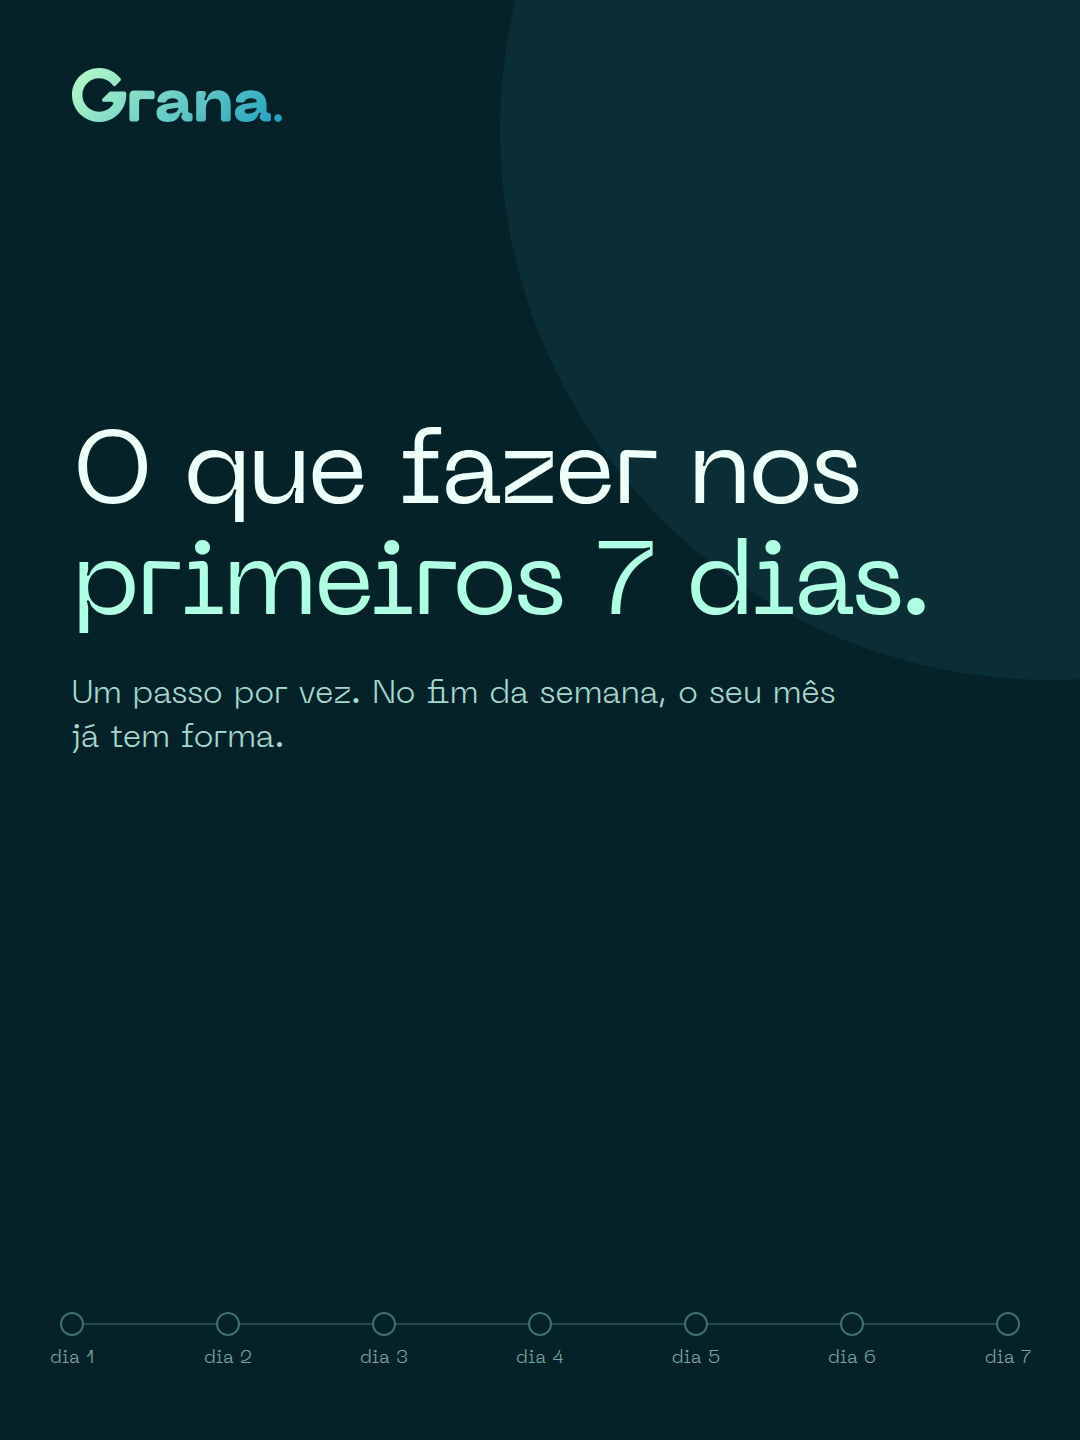
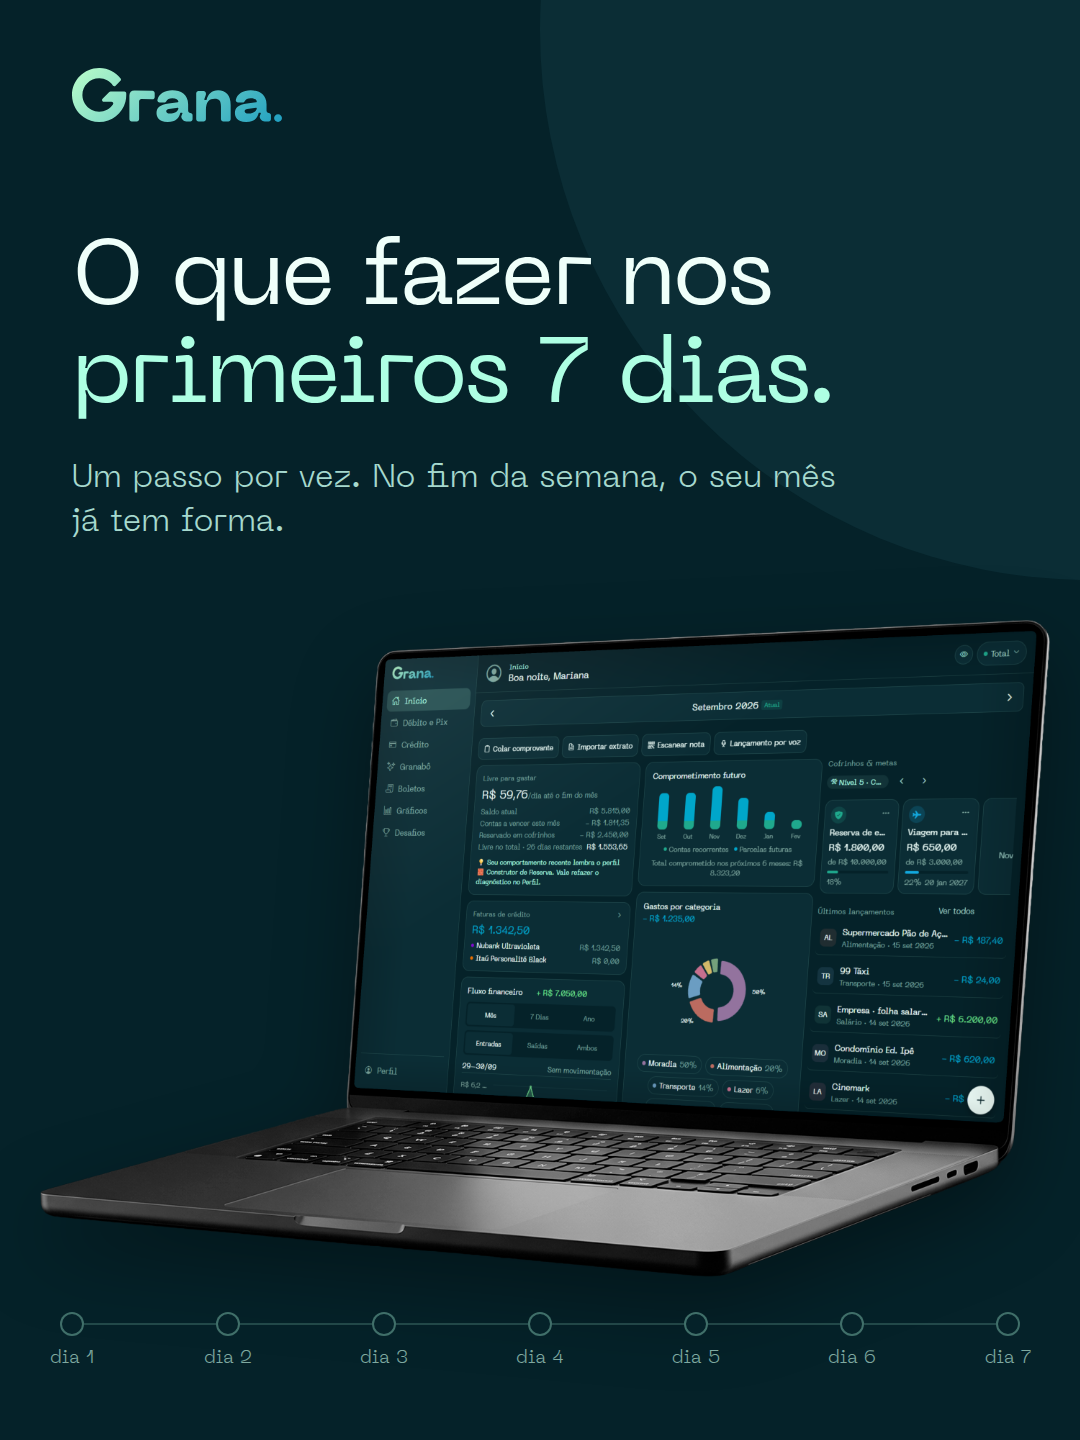
docs(marketing): S8 revisado (capa com notebook, widget Livre no lugar do medidor, fechamento com celular)
Claude-Session: https://claude.ai/code/session_01Fv8uFkxWiJMthXkKAtJfu8

diff --git a/docs/marketing/funil-criativos-flat-2026-09/S8-primeiros-7-dias/S8.html b/docs/marketing/funil-criativos-flat-2026-09/S8-primeiros-7-dias/S8.html
@@ -44,14 +44,37 @@ html,body{width:1080px;height:1440px;overflow:hidden;background:#052229}
 .lista b.off{background:transparent;border:2px solid rgba(174,255,227,.4)}
 .cta{position:absolute;left:72px;font-family:NM;font-size:60px;line-height:1.1;color:#effffa;letter-spacing:-1px}
 .cta em{font-style:normal;color:#aeffe3}
+.wl{align-self:flex-start;width:760px;border-radius:54px;background:#0b2d35;border:3px solid #2a5660;padding:40px 48px;font-family:Rb;box-shadow:0 24px 50px rgba(0,0,0,.3)}
+.wl .t{font-size:33px;color:#a6d9ce}.wl .v{font-size:66px;font-weight:700;color:#effffa;margin-top:6px;letter-spacing:-.5px}
+.wl .a{font-size:30px;color:#a6d9ce;margin-top:4px}.wl .u{font-size:24px;color:#a6d9ce;margin-top:14px}
+.ph{position:relative;width:348px;height:761px;align-self:center}
+.ph .body{position:absolute;inset:0;border-radius:50px;overflow:hidden;background:url(../../../../design-system/marketing-mockups/celular-vazio.png) no-repeat;background-size:1778px 1000px;background-position:-721px -100px}
+.ph .screen{position:absolute;left:12.2px;top:13.9px;width:323.6px;height:734px;border-radius:36px;overflow:hidden}
+.ph .dp{position:absolute;left:0;top:0;width:412px;height:935px;transform:scale(.7855);transform-origin:0 0;background:radial-gradient(90% 60% at 20% 15%,#1d6f7c 0%,transparent 60%),radial-gradient(80% 60% at 90% 80%,#0d4a5e 0%,transparent 65%),linear-gradient(180deg,#0a3440 0%,#06222b 100%)}
+.ph .hole{position:absolute;left:50%;top:10px;width:11px;height:11px;margin-left:-5.5px;border-radius:50%;background:#040506}
+.ph .glass{position:absolute;inset:0;border-radius:36px;background:linear-gradient(120deg,rgba(255,255,255,.09) 0%,rgba(255,255,255,0) 35%)}
+.hs .sb{position:absolute;left:0;right:0;top:0;height:40px;display:flex;align-items:center;justify-content:space-between;padding:0 26px;font-family:Rb;font-size:15px;color:#fff}
+.hs .clock{position:absolute;left:28px;top:200px;font-family:Rb;color:#fff}.hs .clock .h{font-size:64px;font-weight:300;line-height:1}.hs .clock .d{font-size:16px;margin-top:8px;opacity:.9}
+.hs .nt2{position:absolute;left:8px;right:8px;top:52px;background:#2b2d31;border-radius:26px;padding:16px 16px 8px;font-family:Rb}
+.hs .nt2 .row{display:flex;gap:14px}.hs .nt2 .ico{width:40px;height:40px;border-radius:50%;background:#052229;flex:none;display:flex;align-items:center;justify-content:center}
+.hs .nt2 .ico img{width:34px;height:34px}.hs .nt2 .tt{font-weight:500;font-size:16px;color:#e3e3e6}.hs .nt2 .hh{font-size:12px;color:#a9abb0}
+.hs .nt2 .bb{font-size:14px;color:#c4c6cb;margin-top:3px}.hs .nt2 .ac{display:inline-block;margin:10px 0 0 42px;font-size:14px;font-weight:500;color:#9cd3c9;padding:8px 12px}
+.hs .w1{position:absolute;left:18px;top:420px;width:100px;display:flex;flex-direction:column;align-items:center}
+.hs .w1 .c{width:64px;height:64px;border-radius:50%;background:linear-gradient(90deg,#b0f7c9,#22a1c1);border:1px solid #09384a;display:flex;align-items:center;justify-content:center}
+.hs .w1 .c svg{width:32px;height:32px}.hs .w1 .l{margin-top:6px;font-family:Rb;font-size:12px;color:#e8f3f1}
+.hs .wl2{position:absolute;left:140px;top:410px;width:250px;border-radius:18px;background:#0b2d35;border:1px solid #2a5660;padding:12px 14px;font-family:Rb}
+.hs .wl2 .t{font-size:11px;color:#a6d9ce}.hs .wl2 .v{font-size:20px;font-weight:700;color:#effffa;margin-top:2px}.hs .wl2 .a{font-size:10px;color:#a6d9ce;margin-top:1px}
+.hs .dock{position:absolute;left:36px;right:36px;bottom:40px;display:flex;justify-content:space-between}.hs .dock i{width:56px;height:56px;border-radius:50%;display:block;background:rgba(255,255,255,.14)}
+.hs .search{position:absolute;left:24px;right:24px;bottom:120px;height:52px;border-radius:26px;background:rgba(255,255,255,.16)}
 </style></head><body>
 
 <!-- 1 capa -->
 <div class="s" id="s1">
-  <div class="arc" style="width:1100px;height:1100px;right:-520px;top:-420px;background:#0b2d35"></div>
+  <div class="arc" style="width:1100px;height:1100px;right:-560px;top:-520px;background:#0b2d35"></div>
   <img class="logo" src="../../../../design-system/marca/logotipo-gradiente.svg">
-  <div class="cp" style="margin-top:300px"><div class="h1" style="font-size:104px;letter-spacing:-2.5px">O que fazer nos <em>primeiros 7 dias.</em></div>
+  <div class="cp"><div class="h1" style="font-size:92px;letter-spacing:-2px">O que fazer nos <em>primeiros 7 dias.</em></div>
   <div class="h2">Um passo por vez. No fim da semana, o seu mês já tem forma.</div></div>
+  <img src="../revisao-03/assets/notebook.png" style="position:absolute;z-index:1;left:40px;top:620px;width:1010px;filter:drop-shadow(0 30px 40px rgba(0,0,0,.35))">
   <div class="rota" data-on="0"></div>
 </div>
 
@@ -80,10 +103,7 @@ html,body{width:1080px;height:1440px;overflow:hidden;background:#052229}
 <div class="s" id="s4">
   <img class="logo" src="../../../../design-system/marca/logotipo-gradiente.svg">
   <div class="cp"><div class="h1"><em>Dias 4 e 5.</em><br>Olhe o Livre para Gastar.</div>
-  <div class="h2">Um número por dia: quanto dá para gastar até o fim do mês.</div></div><div class="area"><svg style="align-self:center" width="480" height="480" viewBox="0 0 480 480">
-    <circle cx="240" cy="240" r="200" fill="none" stroke="rgba(174,255,227,.14)" stroke-width="26" stroke-linecap="round" stroke-dasharray="1047 1257" transform="rotate(135 240 240)"/>
-    <circle cx="240" cy="240" r="200" fill="none" stroke="#aeffe3" stroke-width="26" stroke-linecap="round" stroke-dasharray="620 1257" transform="rotate(135 240 240)"/>
-    <text x="240" y="252" text-anchor="middle" font-family="NM" font-size="42" fill="#effffa">hoje</text></svg></div>
+  <div class="h2">Um número por dia: quanto dá para gastar até o fim do mês.</div></div><div class="area"><div class="wl"><div class="t">Livre para gastar</div><div class="v">R$ 59,76/dia</div><div class="a">R$ 1.553,65 no total · 26 dias</div><div class="u">Atualizado agora</div></div></div>
   <div class="rota" data-on="5"></div>
 </div>
 
@@ -102,11 +122,21 @@ html,body{width:1080px;height:1440px;overflow:hidden;background:#052229}
 </div>
 
 <!-- 6 fechamento -->
-<div class="s" id="s6">
+<div class="s" id="s6" style="padding-bottom:110px">
   <div class="arc" style="width:1300px;height:1300px;left:-650px;bottom:-760px;border:2px solid rgba(174,255,227,.14)"></div>
   <div class="arc" style="width:900px;height:900px;right:-460px;top:-380px;background:#0b2d35"></div>
-  <img src="../../../../design-system/marca/logotipo-gradiente.svg" style="position:absolute;left:72px;top:520px;width:520px">
-  <div class="cta" style="top:760px">Comece pelo<br><em>próximo gasto.</em></div>
+  <img class="logo" src="../../../../design-system/marca/logotipo-gradiente.svg">
+  <div class="area" style="align-items:center;justify-content:flex-start;margin-top:60px;gap:64px">
+    <div class="ph"><div class="body"></div><div class="screen"><div class="dp hs">
+      <div class="sb"><span>08:12</span><span>▾ ◢ ▮</span></div>
+      <div class="nt2"><div class="row"><div class="ico"><img src="../../../../assets/android-icon-monochrome.png"></div><div><div class="tt">Pão na padaria · R$ 3,57 <span class="hh">· agora</span></div><div class="bb">Alimentação · Débito · salvo no Grana.</div></div></div><span class="ac">Desfazer</span></div>
+      <div class="clock"><div class="h">08:12</div><div class="d">sex., 26 de set.</div></div>
+      <div class="w1"><div class="c"><svg viewBox="0 0 24 24"><path fill="#052229" d="M12,14c1.66,0 3,-1.34 3,-3L15,5c0,-1.66 -1.34,-3 -3,-3S9,3.34 9,5v6c0,1.66 1.34,3 3,3zM17.3,11c0,3 -2.54,5.1 -5.3,5.1S6.7,14 6.7,11L5,11c0,3.41 2.72,6.23 6,6.72L11,21h2v-3.28c3.28,-0.48 6,-3.3 6,-6.72h-1.7z"/></svg></div><div class="l">Lançar por voz</div></div>
+      <div class="wl2"><div class="t">Livre para gastar</div><div class="v">R$ 59,62/dia</div><div class="a">R$ 1.550,08 no total · 26 dias</div></div>
+      <div class="search"></div><div class="dock"><i></i><i></i><i></i><i></i></div>
+    </div><div class="hole"></div><div class="glass"></div></div></div>
+    <div class="cta" style="position:relative;text-align:center;font-size:64px">Comece pelo<br><em>próximo gasto.</em></div>
+  </div>
 </div>
 
 <script>

diff --git a/docs/marketing/funil-criativos-flat-2026-09/S8-primeiros-7-dias/README.md b/docs/marketing/funil-criativos-flat-2026-09/S8-primeiros-7-dias/README.md
@@ -4,12 +4,12 @@ Carrossel de feed com 6 slides em 1080×1440, feito localmente sem créditos da 
 
 | Slide | H1 | Apoio | Gráfico |
 |---|---|---|---|
-| 1 | O que fazer nos primeiros 7 dias. | Um passo por vez. No fim da semana, o seu mês já tem forma. | rota dos 7 dias |
+| 1 | O que fazer nos primeiros 7 dias. | Um passo por vez. No fim da semana, o seu mês já tem forma. | notebook com a Início real (`revisao-03/assets/notebook.png`) |
 | 2 | Dias 1 e 2. Lance cada gasto na hora. | Pagou? Fala pro widget ou cola o comprovante do Pix. Leva segundos. / Esqueceu algum? À noite o Grana. te lembra. | notificação real de gasto salvo e widget "Lançar por voz" (recriados, o que a seção 8 do funil permite) |
 | 3 | Dia 3. Confira as categorias. | Veja se cada gasto caiu no lugar certo. Se não caiu, é só editar o lançamento. | etiquetas com as cores reais das categorias (`lib/types.ts`) |
-| 4 | Dias 4 e 5. Olhe o Livre para Gastar. | Um número por dia: quanto dá para gastar até o fim do mês. | círculo aberto, sem número (regra 20) |
+| 4 | Dias 4 e 5. Olhe o Livre para Gastar. | Um número por dia: quanto dá para gastar até o fim do mês. | widget real "Livre para gastar" recriado, com R$ 59,76/dia e R$ 1.553,65 · 26 dias, os mesmos números fictícios da Início do slide 1 |
 | 5 | Dias 6 e 7. Ajuste a rotina. | Com uma semana lançada, dá para ver onde o dinheiro foi. Escolha um hábito para mudar. | checklist |
-| 6 | Comece pelo próximo gasto. | — | logotipo |
+| 6 | Comece pelo próximo gasto. | — | celular real (`celular-vazio.png`) com a tela inicial: notificação do pão, widget de voz e widget Livre já com o gasto descontado (R$ 59,62/dia); logotipo no lugar de sempre e texto centralizado |
 
 - **Os quatro passos** são os do funil (seção 17.3, S8): lançar, categorizar, olhar o Livre para Gastar e ajustar a rotina.
 - **Conferido no código:**
@@ -20,3 +20,11 @@ Carrossel de feed com 6 slides em 1080×1440, feito localmente sem créditos da 
 - **A rota dos 7 dias** fica embaixo em todos os slides e vai acendendo conforme o carrossel avança.
 - **Ficam de fora:** sobretítulo, rodapé, botões, preço e número de saldo.
 - **Para regenerar:** abra `S8.html?s=N`, com N de 1 a 6, no Chromium em 1080×1440 e fotografe.
+
+## Revisão do autor (26/09/2026)
+
+1. **Medidor circular do slide 4 retirado.** O autor apontou que ele "não existe em lugar nenhum do Grana.". Entrou no lugar o widget real "Livre para gastar".
+2. **Capa ganhou o notebook com a Início web.** Pedido do autor.
+3. **Último slide:** ganhou o celular com a tela inicial, o logotipo voltou ao lugar dos outros slides e o texto ficou centralizado.
+
+**Pendência para o dia D:** a Início do notebook é uma captura anterior à regra 20. Ela ainda mostra a linha "Contas a vencer este mês", que a regra tirou. Antes de publicar, é preciso recapturar a Início da build nova e trocar o `notebook.png` (a mesma pendência do S1 e do S3 no funil).
